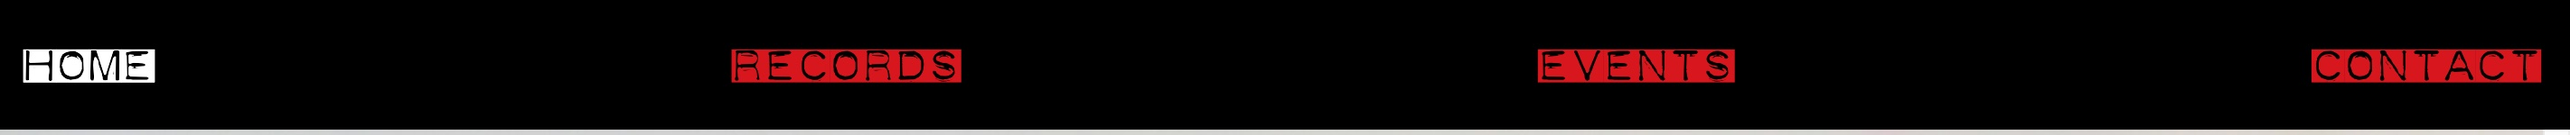
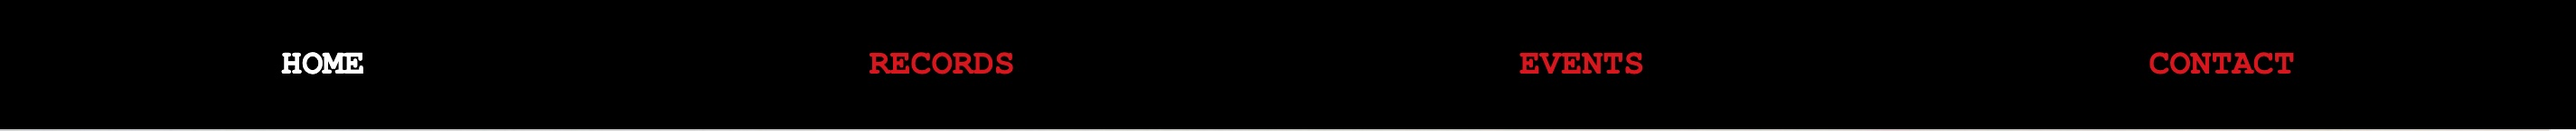
Update readme.md #39

diff --git a/README.md b/README.md
@@ -1,10 +1,10 @@
 # REAL Records
 
-Real Records is a web site for the imaginary record store with the same name. The purpose of the site is to give the users information of what they can find in the store and what events that are arranged so that they want to visit the store. Another goal is to build a community for people interested in music, both in the store but also online.
+Real Records is a web site for the imaginary record store with the same name. The purpose of the site is to give the users information of what they can find in the store and what events that are arranged so that they want to visit the store. Another long term goal is to build a community for people interested in music, both in the store but also online.
 
 The live link can be found here - [REAL Records](https://andersganander.github.io/record_store/)
 
-![Am I Responsive Image](docs/readme_images/am-i-resposive.jpg)
+![Am I Responsive Image](docs/readme_images/am-i-responsive.jpg)
 
 ## Site Owner Goals 
 - To make the user curious to visit the physical store by:
@@ -33,12 +33,12 @@ The live link can be found here - [REAL Records](https://andersganander.github.i
 The images used on the REAL Records web site are chosen to re-create the atmosphere of the real store. Nice images of vinyl records and vinyl players. 
 
 ### Colours
-The colors used on the site are mainly black, white and red. Black is the natural and most common color of a vinyl record and therefore seems like a natural choice. It is used as a background color i the navigation bar and in the footer. 
+The colors used on the site are mainly black, white and red. Black is the natural and most common color of a vinyl record and therefore seems like a natural choice. It is used as a background color in the navigation bar and in the footer. 
 
 ### Fonts
-The font "DymoFontInvers" is used to create a feeling of a rock/punk attitude and is used for headings and links in the navigation bar.
+The font Courier New is used in all texts and alson in headings and links in the nav bar. It's chosen for it's authenticity and it's retro feeling.
 
-For the normal text, courier new is used which also create a feeling of D. I. Y. as it reminds of the look of fanzines from the 80's. 
+The font "DymoFontInvers" is used to create a feeling of a rock/punk attitude and is used in the form on the CONTACT page.
 
 ## Wireframes
 Wireframes were produced using Balsamiq. 
@@ -73,7 +73,7 @@ Wireframes were produced using Balsamiq.
 ![Nav bar image](docs/readme_images/nav_bar.jpg)
 
 - ### The Landing Page
-    - The landing page is very straightforward and presents information about the subject. 
+    - The landing page is very straightforward and presents information about the the store and what the user can expect to find on the site.
 
 ![Landing page image](docs/readme_images/landing_page.jpg) 
 
@@ -106,53 +106,45 @@ Wireframes were produced using Balsamiq.
 
 ![Footer image](docs/readme_images/footer.jpg)
 
-404 and favicon?
-
-### Features Left to Implement
-- 
 
 ## Testing
 
 ### Validator Testing
 - #### HTML
-    - 
+    - The site was tested with W3C Markup Validation Service, without any errors.
+
 - #### CSS
-    - 
+    -  The site was tested with W3C CSS Validator, without any errors.
+
 - #### Accessibility 
-    - 
+    - The site was tested for accessibility with Ligthouse and received a good result.
 
-![Lighthouse score](docs/readme_images/Lighthouse_1.jpg)
+![Lighthouse score](docs/readme_images/lighthouse_new.jpg)
 
-![Lighthouse score](docs/readme_images/Lighthouse_2.jpg)
 
 ### User story testing
-The form 
+The tests has been done with Chrome on macOs
 
-![Feature testing](docs/readme_images/feature_testing.jpg)
-
+![Feature testing](docs/readme_images/test_1.jpg)
+![Feature testing](docs/readme_images/test_2.jpg)
+![Feature testing](docs/readme_images/test_3.jpg)
 
 ### Browser Testing
-The site were tested in the most common browsers (Chrome, Firefox, Safari and Edge). Alll browser were tested on mac os except for Edge which was tested on Windows 11.
+The site were tested in the most common browsers (Chrome, Firefox, Safari and Edge). Alll browsers were tested on mac os except for Edge which was tested on Windows 11.
 
 ![Browser testing](docs/readme_images/browser_testing.jpg)
 
     
 ### Device Testing
-- 
+In addition to testing responsiness with Am I Responsive and Responsinator the site has also been tested on some ios devices (iPhone SE and iPad). On the smaller iPhone there was an issue with the submit button when viewing the site in Safari (see the Browser testing table for a description of the issue and a workaround).
 
 
 ### Fixed Bugs
-
+All the bugs that were discovered during the development have been documented using GitHub issues. All bugs are fixed.
 ![List of fixed bugs](docs/readme_images/Fixed_bugs.jpg)
 
-#### ABug 1
-- The 
-
-#### Bug 2
-- When I first 
-
 ### Known Bugs
-- 
+- Issue with submit button in safari on smaller iphones. Workaround available (see browser testing table).
 
 ## Technologies Used
 
@@ -161,36 +153,64 @@ The site were tested in the most common browsers (Chrome, Firefox, Safari and Ed
 - CSS
 
 ### Frameworks - Libraries - Programs Used
-- [Am I Responsive](http://ami.responsivedesign.is/) - Used to verify responsiveness of website on different devices.
-- [Responsinator](http://www.responsinator.com/) - Used to verify responsiveness of website on different devices.
-- [Balsamiq](https://balsamiq.com/) - Used to generate Wireframe images.
-- [Chrome Dev Tools](https://developer.chrome.com/docs/devtools/) - Used for overall development and tweaking, including testing responsiveness and performance.
-- [Font Awesome](https://fontawesome.com/) - Used for Social Media icons in footer.
+#### Development and design
+- [Balsamiq](https://balsamiq.com/) - Used to create wireframes for desktop and mobile.
+- [Chrome Dev Tools](https://developer.chrome.com/docs/devtools/) - Used for overall development and testing.
 - [GitHub](https://github.com/) - Used for version control and hosting.
-- [Google Fonts](https://fonts.google.com/) - Used to import and alter fonts on the page.
-- [W3C](https://www.w3.org/) - Used for HTML & CSS Validation.
-- 
+
+#### Testing
+- [Am I Responsive](http://ami.responsivedesign.is/) - Used to verify responsiveness.
+- [Lighthouse](https://developer.chrome.com/docs/devtools/) - Used for overall accessibility testing from dev tools.
+- [Responsinator](http://www.responsinator.com/) - Used to verify responsiveness.
+- [W3C](https://www.w3.org/) - Used for validation of HTML and CSS.
 
 ## Deployment
 
 The project was deployed using GitHub pages. The steps to deploy using GitHub pages are:
 
 1. Go to the repository on GitHub.com
-2. Select 'Settings' near the top of the page.
+2. Select 'Settings' near the top right corner of the page.
 3. Select 'Pages' from the menu bar on the left of the page.
-4. Under 'Source' select the 'Branch' dropdown menu and select the main branch.
-5. Once selected, click the 'Save'.
-6. Deployment should be confirmed by a message on a green background saying "Your site is published at" followed by the web address.
+4. Click the drop down below 'Source' and select 'Deploy from a Branch'.
+5. Click the drop down under 'Branch' and select 'main'.
+5. Click 'Save'.
 
-The live link can be found here - []()
+At the top of the page there's a section describing the status of your site and when it was last deployed. 
+To remove the project from auto-deploy:
+Repeat step 1-2 in the above list
+3. Click the drop down under 'Branch' and select 'None'.
+4. Click 'Save'.
+
+
+The live link can be found here - [REAL Records](https://andersganander.github.io/record_store/)
 
 ## Credits
 
 ### Content
-All content was produced by the author.
+All texts was written by the site owner.
 
 ### Media
+#### Photos
+- Photo on EVENTS page from (https://www.pexels.com/@cottonbro/)
+- Photo on HOME page and CONTACT page by Adrian Korte on Unsplash
+- Photo on RECORDS page by Mick Haupt on Unsplash
+- Photo in header on all pages by Samuel Regan-Asante on Unsplash
+
+#### Fonts and icons
+- Dymo Font Ivers (used om the CONTACT page) from (https://www.fonts4free.net/dymo-font-invers-font.html
+)
+- [Font Awesome](https://fontawesome.com/) used for icons in footer and event cards
+- [Freefavicon](https://www.freefavicon.com/) used for creating favicon.
+
 
 ### Resources Used
+- Love Running walkthrough, especially how to use font awesome in footer.
+- [Mmdn](https://developer.mozilla.org/en-US/docs/Web/CSS) for tutorials, tips and tricks
+- [w3Schools] (https://www.w3schools.com/) for tutorials, tips and tricks. 
+- Code snippet to calculate width from (https://www.w3schools.com/cssref/func_calc.php) 
+- Inspiration on how to use box-shadow: https://www.freecodecamp.org/news/html-div-what-is-a-div-tag-and-how-to-style-it-with-css/ 
+
 
 ## Acknowledgments
+- I received support and helpful advices from my mentor, Antonio.
+- The slack community, where everyone is really helpful and supportive.
